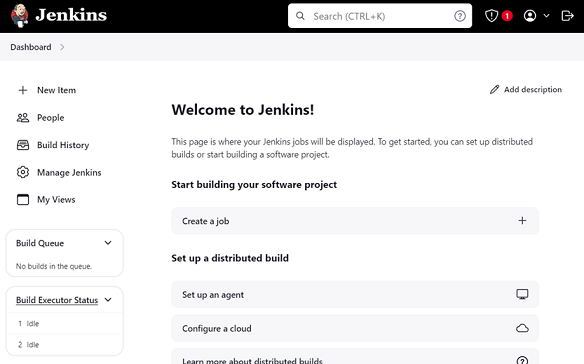
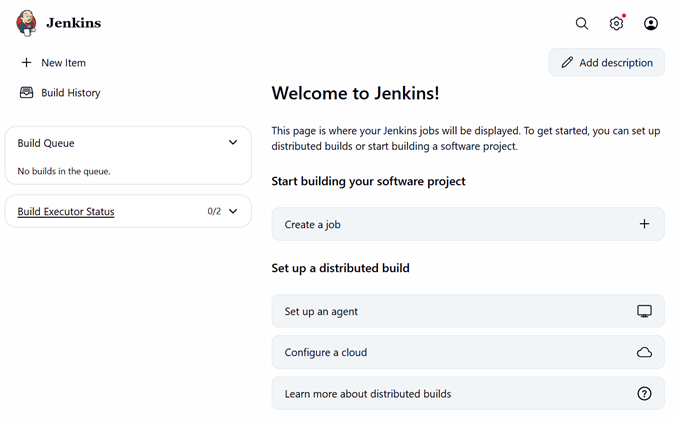
update notes to reflect changes in jenkins interface

diff --git a/MAC/LAB_5C_MAC.md b/MAC/LAB_5C_MAC.md
@@ -276,7 +276,7 @@ Create the following files with the following contents.
 
    We are creating an inventory file named `aws_ec2.yaml` where it will define the configuration that uses the Ansible dynamic inventory plugin for AWS EC2 to automatically discover and manage EC2 instances in the `us-east-1` region. It groups instances by their tags with a prefix of 'tag' and specifies the connection details using their IP addresses. This setup streamlines automation tasks and simplifies the management of AWS resources using Ansible.
 
-   For more information, you are encouraged to read up more at the [Ansible documentation](https://docs.ansible.com/ansible/latest/collections/amazon/aws/docsite/aws_ec2_guide.html#minimal-example)
+   For more information, you are encouraged to read up more from the [Ansible documentation](https://docs.ansible.com/ansible/latest/collections/amazon/aws/docsite/aws_ec2_guide.html#minimal-example).
 
 
 4. Create the `tag_group_web.yaml` file in the `/etc/ansible/group_vars` directory.
@@ -332,7 +332,7 @@ Create the following files with the following contents.
 
 ## Task 1: Adding SSH key to Jenkins to access the GitHub repository
 
-1. From the Jenkins dashboard, click on **Manage Jenkins** located on the left menu.
+1. From the Jenkins dashboard, click on **Manage Jenkins** icon located on the top right hand corner of the header bar. (It looks like a gear icon).
 
 2. Click on **Credentials** under the Security section.
 
@@ -382,9 +382,9 @@ Please save and push all changes to your `automation` repository before proceedi
 
 ## Task 4: Creating the Jenkins Pipeline
 
-1. Click on the Jenkins logo on the top left to show the Dashboard.
+1. Click on the Jenkins logo on the top left to show the dashboard.
 
-2. Click **+ New Item** on the left menu shown in the Dashboard.
+2. Click **+ New Item** on the left menu shown in the dashboard.
 
 3. Under item name, give it a name: `pipeline1`.
 

diff --git a/LAB_5C.md b/LAB_5C.md
@@ -278,7 +278,7 @@ Create the following files with the following contents.
 
    We are creating an inventory file named `aws_ec2.yaml` where it will define the configuration that uses the Ansible dynamic inventory plugin for AWS EC2 to automatically discover and manage EC2 instances in the `us-east-1` region. It groups instances by their tags with a prefix of 'tag' and specifies the connection details using their IP addresses. This setup streamlines automation tasks and simplifies the management of AWS resources using Ansible.
 
-   For more information, you are encouraged to read up more at the [Ansible documentation](https://docs.ansible.com/ansible/latest/collections/amazon/aws/docsite/aws_ec2_guide.html#minimal-example)
+   For more information, you are encouraged to read up more from the [Ansible documentation](https://docs.ansible.com/ansible/latest/collections/amazon/aws/docsite/aws_ec2_guide.html#minimal-example).
 
 
 4. Create the `tag_group_web.yaml` file in the `/etc/ansible/group_vars` directory.
@@ -334,7 +334,7 @@ Create the following files with the following contents.
 
 ## Task 1: Adding SSH key to Jenkins to access the GitHub repository
 
-1. From the Jenkins dashboard, click on **Manage Jenkins** located on the left menu.
+1. From the Jenkins dashboard, click on **Manage Jenkins** icon located on the top right hand corner of the header bar. (It looks like a gear icon).
 
 2. Click on **Credentials** under the Security section.
 
@@ -384,7 +384,7 @@ Please save and push all changes to your `automation` repository before proceedi
 
 ## Task 4: Creating the Jenkins Pipeline
 
-1. Click on the Jenkins logo on the top left to show the Dashboard.
+1. Click on the Jenkins logo on the top left to show the dashboard.
 
 2. Click **+ New Item** on the left menu shown in the Dashboard.
 

diff --git a/LAB_5B.md b/LAB_5B.md
@@ -258,9 +258,10 @@ With the benefits of Ansible Vault in mind, you will now store your GitHub PAT t
 1. Before you run the `common.yaml` file, please take note of the following:
 
    *  If you are not using the `ubuntu` username in WSL, you would need to modify the path for the last two tasks accordingly.
-   *  You would need to modify the path and owner for the last two tasks accordingly.
+
+   *  You would need to ensure that the path, owner and group for the last two tasks is correct.
   
-       ```bash
+      ```bash
       - name: create ansible roles folder in home directory
         file:
           path: ~/.ansible/roles/juju4.gpgkey_generate/
@@ -467,7 +468,7 @@ In this task, we will be accessing Jenkins on the browser to install the suggest
 
    Replace `<EC2_PUBLIC_IP>` with the public IP address of your EC2 instance.
 
-2. You will be prompted to enter the initial admin password. Run the following command to retrieve the initial admin password.
+2. You will be prompted to enter the initial admin password. To obtain the administrator password, you would need to first SSH into the jenkins machine. After which, run the command to retrieve the initial admin password.
 
    ```bash
    sudo cat /var/lib/jenkins/secrets/initialAdminPassword

diff --git a/MAC/LAB_5B_MAC.md b/MAC/LAB_5B_MAC.md
@@ -254,7 +254,7 @@ With the benefits of Ansible Vault in mind, you will now store your GitHub PAT t
 
 1. Before you run the `common.yaml` file, please take note of the following:
 
-   *  You would need to modify the path and owner for the last two tasks accordingly.
+   *  You would need to ensure that the path, owner and group for the last two tasks is correct.
 
       ```bash
       - name: create ansible roles folder in home directory
@@ -464,7 +464,7 @@ In this task, we will be accessing Jenkins on the browser to install the suggest
 
    Replace `<EC2_PUBLIC_IP>` with the public IP address of your EC2 instance.
 
-2. You will be prompted to enter the initial admin password. Run the following command to retrieve the initial admin password.
+2. You will be prompted to enter the initial admin password. To obtain the administrator password, you need to first SSH into the jenkins machine. After which, run the command to retrieve the initial admin password.
 
    ```bash
    sudo cat /var/lib/jenkins/secrets/initialAdminPassword
